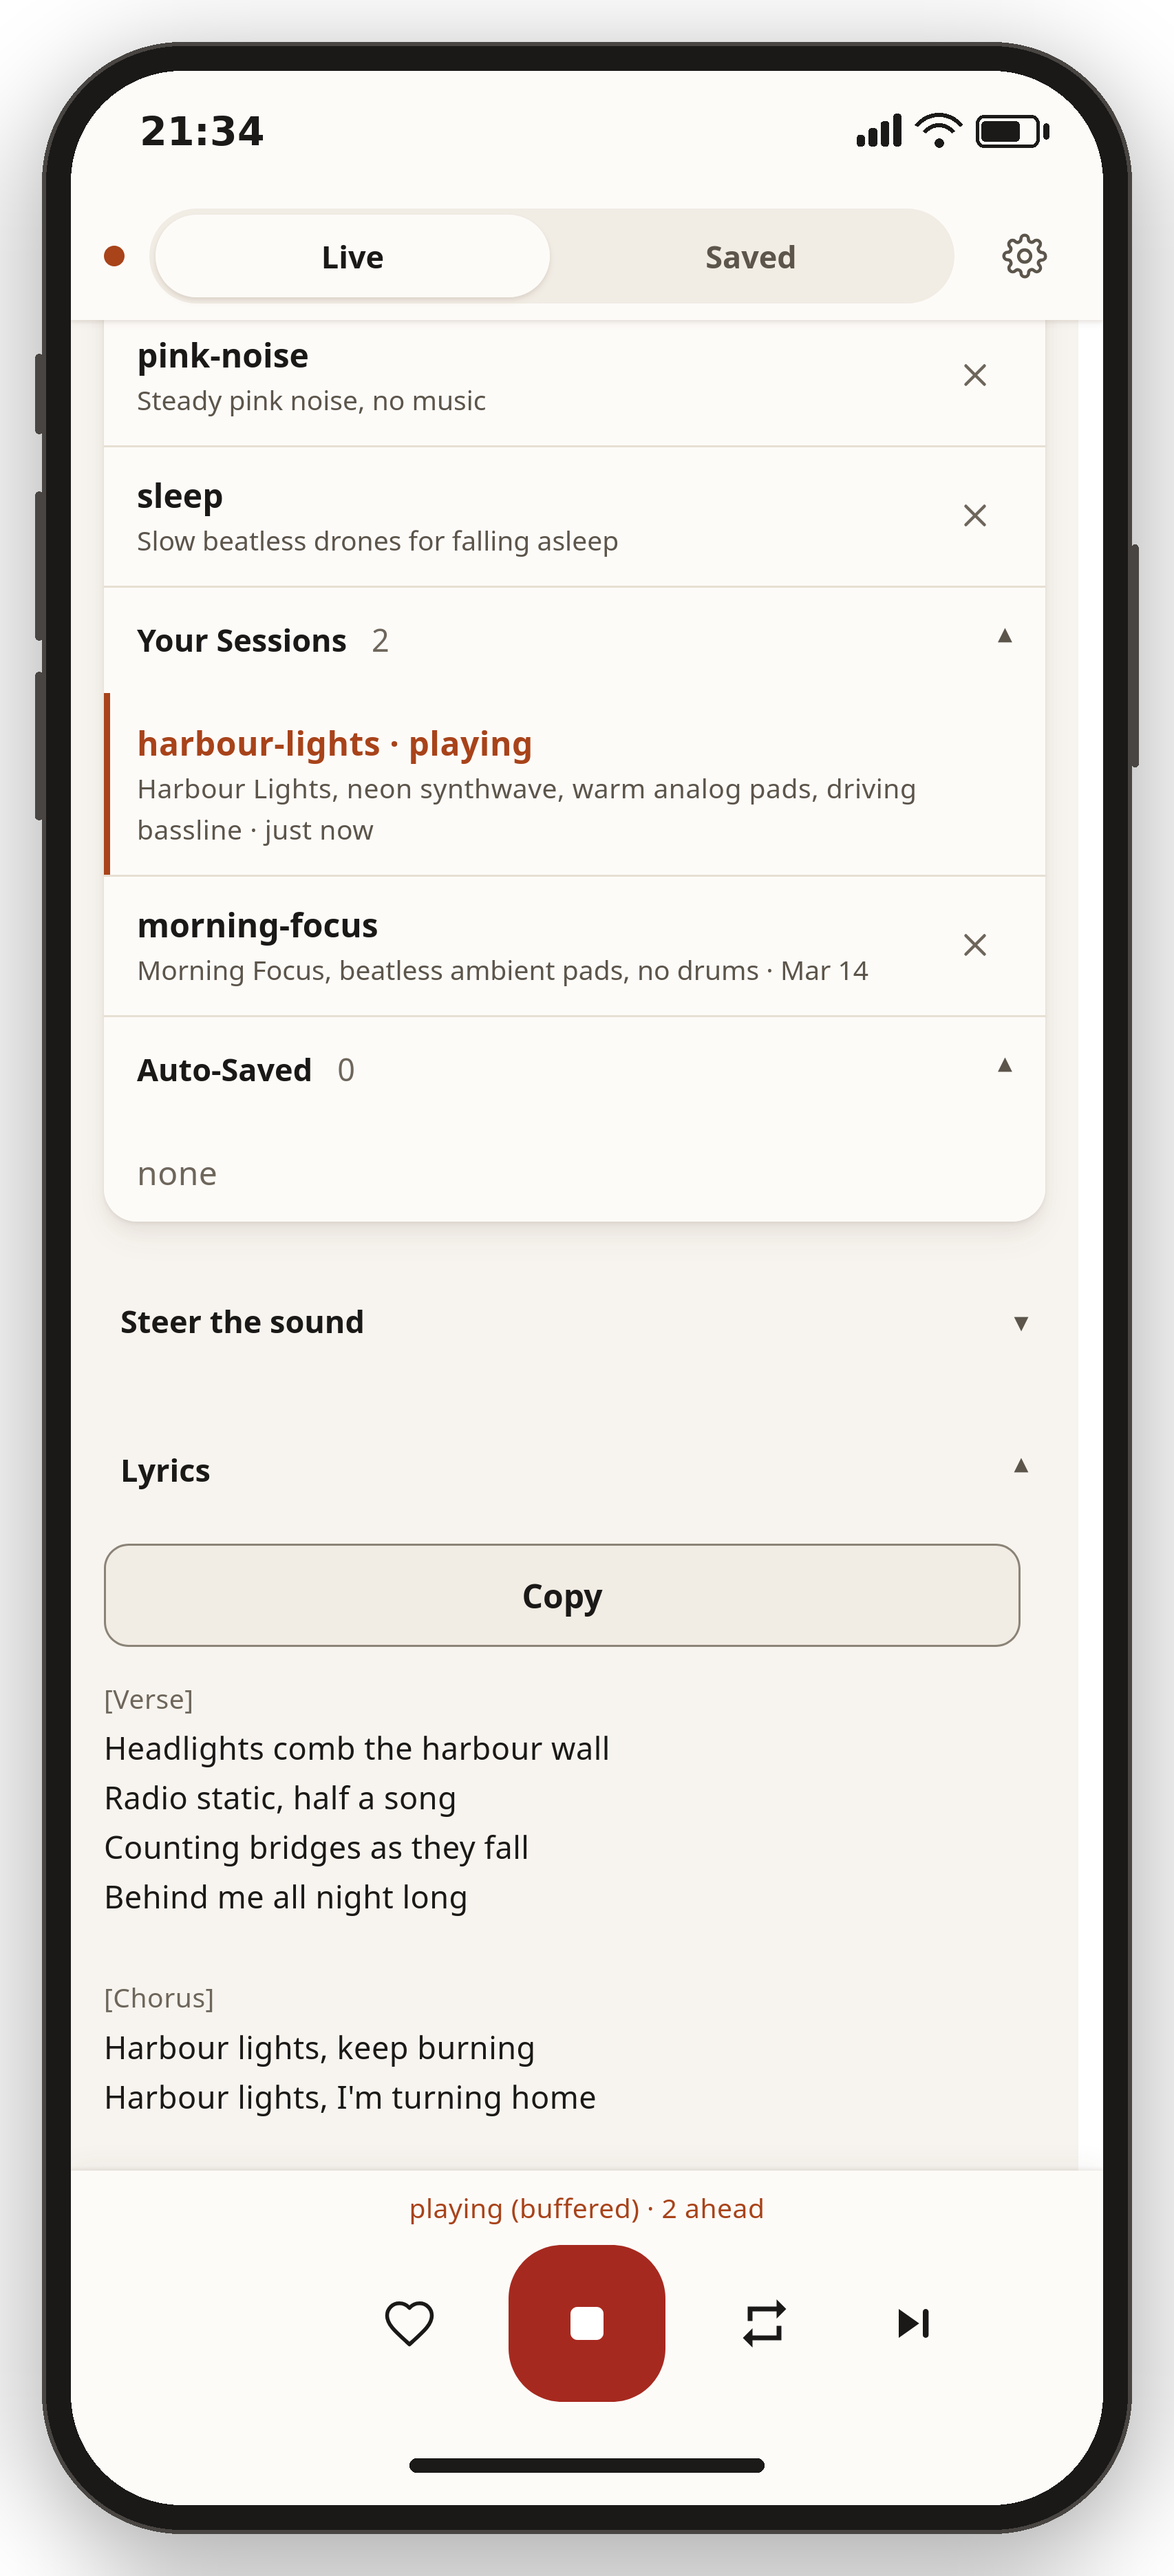
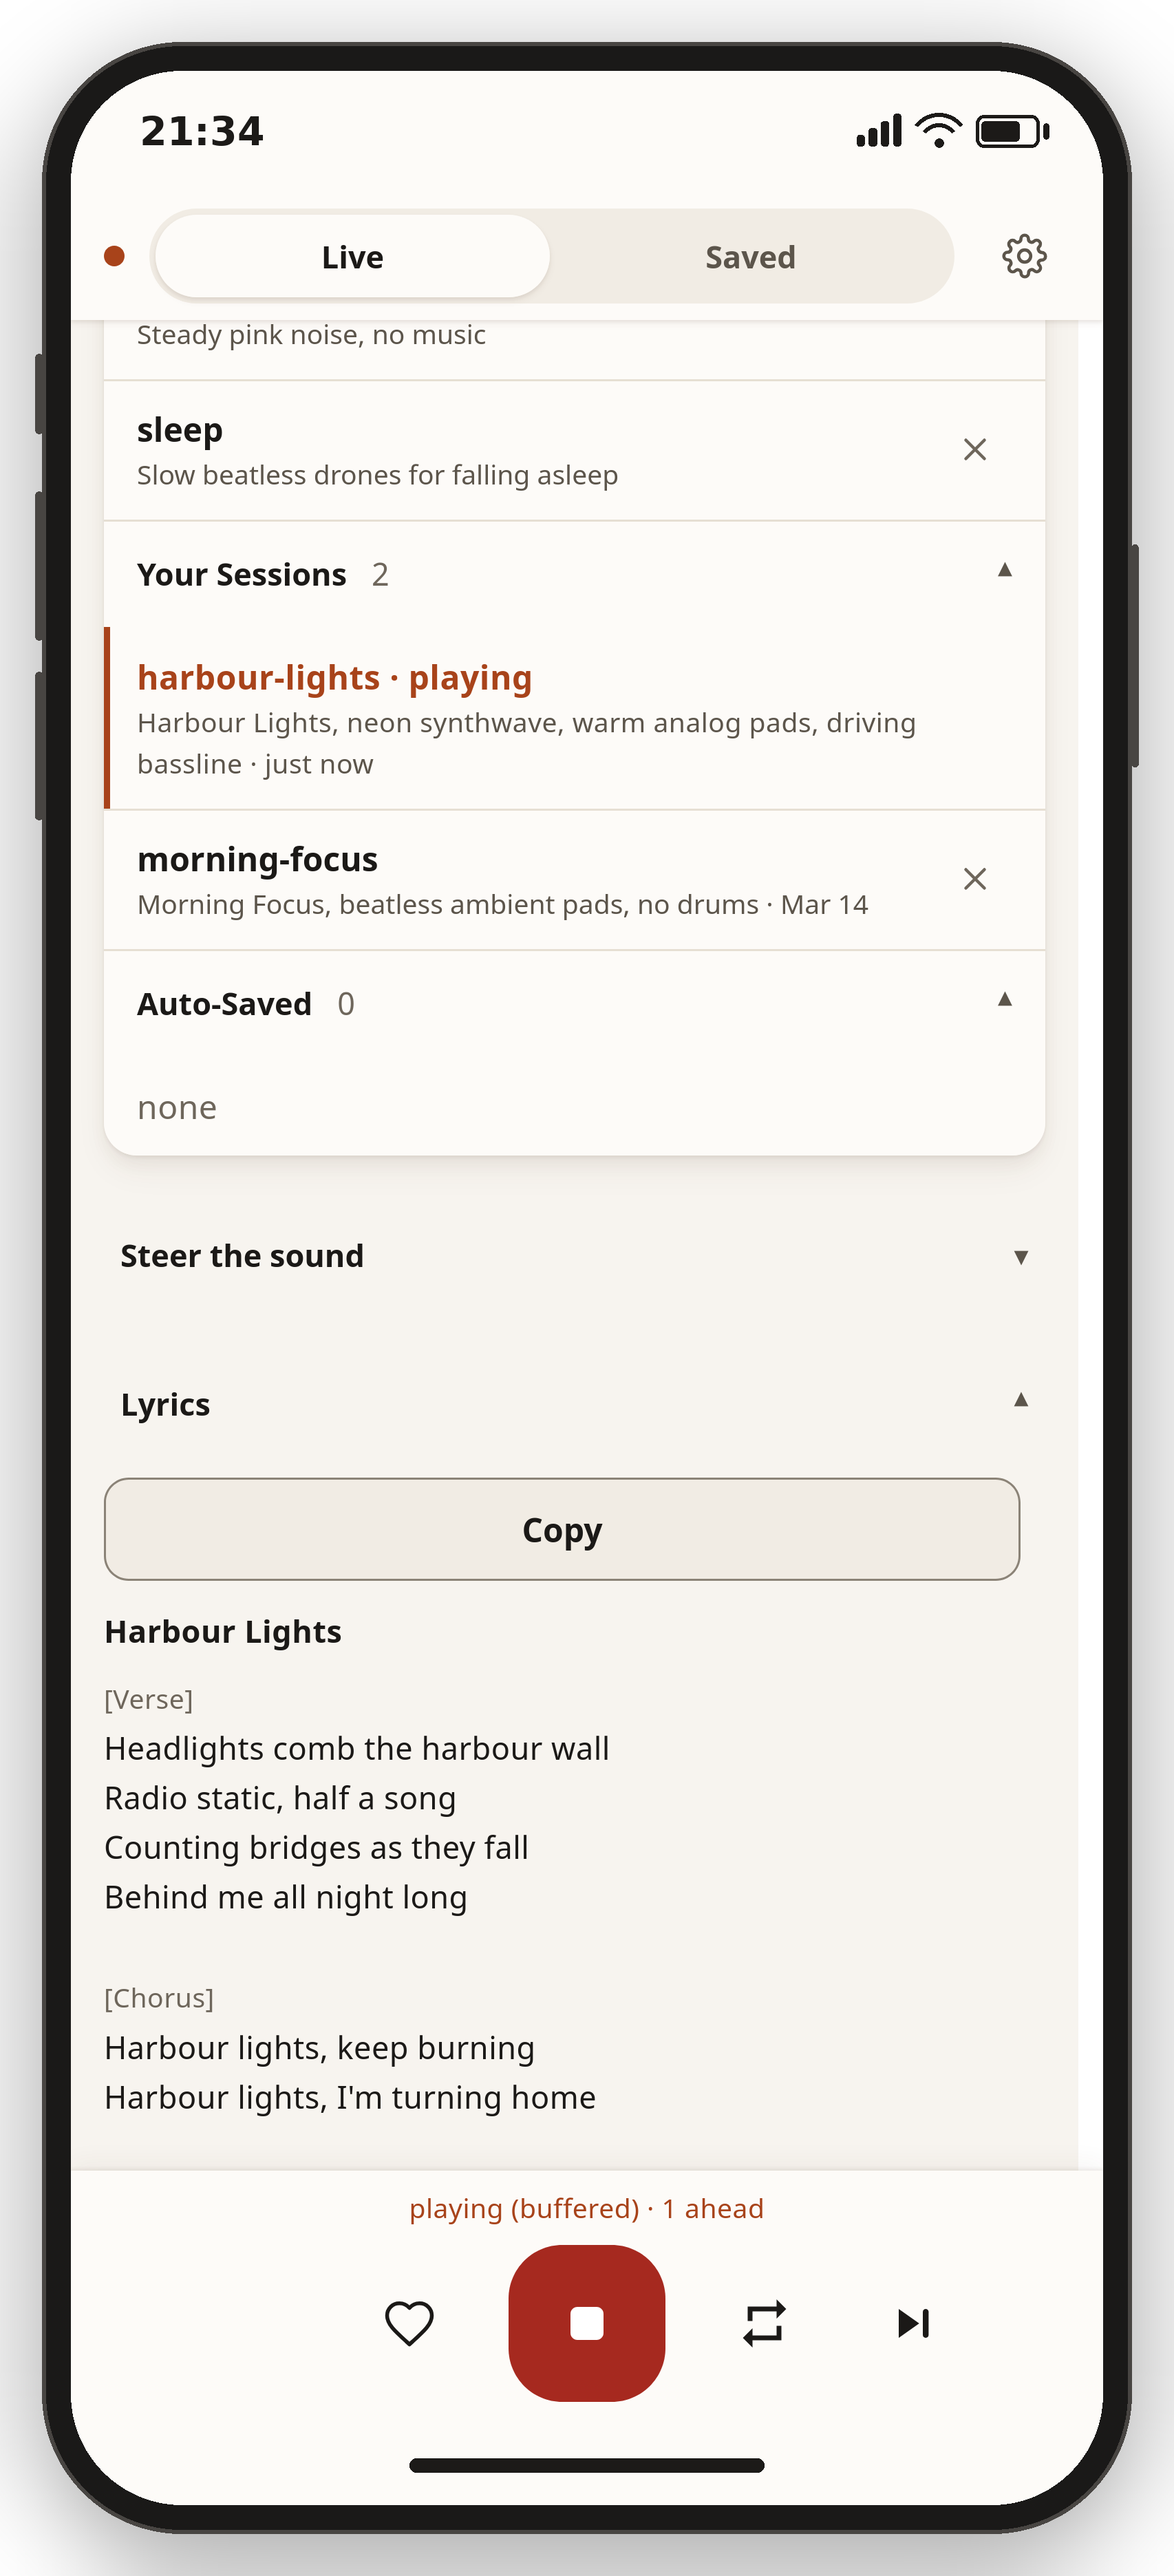
The words are headed by the song they belong to
The lyrics panel showed the words with nothing to say whose they were,
and the Copy button handed over the same anonymous sheet - which stops
being a song the moment it lands in a notes app. The song's name now
sits above its words and travels with them when they are copied. Like
the words themselves it follows whatever this device is playing, so a
phone on its own bank heads the lyrics with the song it is actually
hearing.

diff --git a/internal/remote/assets/app.js b/internal/remote/assets/app.js
@@ -1513,23 +1513,32 @@
   // words anyone sings, so they are set back rather than dropped.
   var lyricsSig = null;
   var lyricsText = "";
+  var lyricsTitle = "";
   // Buffered playback runs on this device's own copy, which is rarely
   // the track the machine is on: the words have to follow what is
   // coming out of THIS phone, or they arrive a track late.
-  function playingLyrics(s) {
+  // playingSong is the song whose words the panel is showing: this
+  // device's own record while it plays its bank, the machine's track
+  // otherwise. Returning the song rather than just its words lets the
+  // panel head the lyrics with the name they belong to.
+  function playingSong(s) {
     if (pf.active) {
-      if (!pf.playingId) return "";
-      var rec = pf.have[pf.playingId];
-      return (rec && rec.lyrics) || "";
+      if (!pf.playingId) return null;
+      return pf.have[pf.playingId] || null;
     }
     // Not playing this device's own bank: the panel follows the radio
     // itself. The room's speakers are singing these words right now,
     // so they show whether or not this device also streams the audio.
-    return (s.track && s.track.lyrics) || "";
+    return (s && s.track) || null;
   }
   function renderLyrics(s) {
-    var text = playingLyrics(s);
+    var song = playingSong(s);
+    var text = (song && song.lyrics) || "";
     lyricsText = text;
+    lyricsTitle = (song && song.title) || "";
+    // The name is its own element, so it repaints with the song even
+    // when the words happen to be unchanged.
+    setText($("lyrtitle"), text ? lyricsTitle : "");
     if (text === lyricsSig) return;
     lyricsSig = text;
     var box = $("lyrics");
@@ -1673,7 +1682,9 @@
       return;
     }
     buzz();
-    copyText(lyricsText).then(function () {
+    // A sheet of words with no name on it is a puzzle once it is out
+    // of the page and in a notes app.
+    copyText(lyricsTitle ? lyricsTitle + "\n\n" + lyricsText : lyricsText).then(function () {
       setStatus($("lyrcopystatus"), "copied", "ok");
     })["catch"](function () {
       setStatus($("lyrcopystatus"), "could not copy - select the words and copy by hand", "err");

diff --git a/internal/remote/assets/style.css b/internal/remote/assets/style.css
@@ -561,6 +561,16 @@ details[open] #baseprompt { -webkit-line-clamp: none; }
    The words are the one thing on this screen worth reading rather than
    scanning, so they get their own measure and keep the writer's own
    line breaks and section markers. */
+/* The song's name over its words, so a copied sheet says what it is
+   and the panel is readable on its own. Hidden by CSS rather than a
+   timed paint: an empty name simply takes no room. */
+.lyrtitle {
+  font-size: 15px; line-height: 24px; font-weight: 600;
+  color: var(--text); margin-bottom: var(--s2);
+  overflow-wrap: anywhere;
+}
+.lyrtitle:empty { display: none; }
+
 .lyrics {
   white-space: pre-wrap; overflow-wrap: anywhere;
   font-size: 15px; line-height: 24px; color: var(--text);

diff --git a/internal/remote/assets/player.html b/internal/remote/assets/player.html
@@ -81,6 +81,7 @@
           <button class="action tap" id="lyrcopy" type="button">Copy</button>
           <span id="lyrcopystatus" class="cardstatus"></span>
         </div>
+        <div id="lyrtitle" class="lyrtitle"></div>
         <p id="lyrics" class="lyrics"><span class="empty">nothing sung yet</span></p>
       </div>
     </details>

diff --git a/internal/remote/browser_test.go b/internal/remote/browser_test.go
@@ -1092,6 +1092,43 @@ func TestRealBrowserResilience(t *testing.T) {
 		w.exec(`return document.getElementById('lyrics').textContent;`, &lyr)
 		return strings.Contains(lyr, "the words for task-") && strings.Contains(lyr, "[Chorus]")
 	})
+	// The words carry the name of the song they belong to, both on the
+	// page and in what the Copy button hands over - a sheet of lyrics
+	// with no name on it is a puzzle once it is in a notes app. Read
+	// the two together so a track change between reads cannot make
+	// them look mismatched.
+	waitFor(t, 15*time.Second, "the lyrics to be headed by the song's name", func() bool {
+		var v struct {
+			Title string `json:"title"`
+			Now   string `json:"now"`
+		}
+		w.exec(`return {title: (document.getElementById('lyrtitle')||{}).textContent||"",
+		                now: (document.getElementById('now')||{}).textContent||""};`, &v)
+		return v.Title != "" && v.Title == v.Now
+	})
+	w.exec(`window.__copied = null;
+		navigator.clipboard = navigator.clipboard || {};
+		navigator.clipboard.writeText = function (t) { window.__copied = t; return Promise.resolve(); };
+		return true;`, nil)
+	w.click("#lyrcopy")
+	waitFor(t, 10*time.Second, "the copied sheet to carry the title", func() bool {
+		var v struct {
+			Copied string `json:"copied"`
+			Title  string `json:"title"`
+			Words  string `json:"words"`
+		}
+		w.exec(`return {copied: window.__copied || "",
+		                title: (document.getElementById('lyrtitle')||{}).textContent||"",
+		                words: (document.getElementById('lyrics')||{}).textContent||""};`, &v)
+		if v.Copied == "" {
+			return false
+		}
+		if !strings.HasPrefix(v.Copied, v.Title) {
+			t.Fatalf("copied sheet does not start with the song's name %q: %q", v.Title, v.Copied[:min(80, len(v.Copied))])
+		}
+		return strings.Contains(v.Copied, "[Chorus]")
+	})
+
 	waitFor(t, 20*time.Second, "steer reached generation", func() bool {
 		return strings.Contains(fe.lastPrompt(), "synths")
 	})
@@ -1314,42 +1351,6 @@ func TestRealBrowserResilience(t *testing.T) {
 		return strings.HasPrefix(md.Artist, "Track ") && md.Title != "Infinite AI Radio"
 	})
 
-	// The page's own headline must name the song THIS device is
-	// playing, not the machine's. In buffered mode the phone plays its
-	// own bank at its own pace, so the two drift apart constantly -
-	// and painting the machine's track is what renamed the song under
-	// a listener who was only looping one. The lock screen has always
-	// followed the device; wait for a moment when the machine is
-	// demonstrably elsewhere, and require the headline to side with
-	// the device.
-	var sawDivergence bool
-	waitFor(t, 40*time.Second, "the machine and this device to name different songs", func() bool {
-		var v struct {
-			Now    string `json:"now"`
-			Card   string `json:"card"`
-			Server string `json:"server"`
-		}
-		w.execAsync(`var cb = arguments[arguments.length - 1];
-			fetch('/state').then(function (r) { return r.json() }).then(function (st) {
-				var m = ('mediaSession' in navigator) && navigator.mediaSession.metadata;
-				cb({now: (document.getElementById('now')||{}).textContent||"",
-				    card: m ? m.title : "",
-				    server: (st.track && (st.track.title || st.track.prompt)) || ""});
-			});`, &v)
-		if v.Card == "" || v.Server == "" || v.Card == v.Server {
-			return false
-		}
-		sawDivergence = true
-		if v.Now != v.Card {
-			t.Fatalf("the headline named the machine's song, not this device's: headline %q, device %q, machine %q",
-				v.Now, v.Card, v.Server)
-		}
-		return true
-	})
-	if !sawDivergence {
-		t.Fatal("never caught the machine and the device on different songs; the check proved nothing")
-	}
-
 	// --- the car's previous-track button saves what the driver hears ---
 	// The media-session action is dispatched exactly as Chrome would;
 	// buffered mode must save the DEVICE's playing track, flash "Saved:"
@@ -1536,6 +1537,36 @@ func TestRealBrowserBufferedNextExclusive(t *testing.T) {
 		return st.Playing == 1 && strings.Contains(pill, "1 ahead")
 	})
 	before := readState()
+
+	// The headline must name the song THIS device is playing. Skipping
+	// the MACHINE moves it on without touching the phone's bank, which
+	// is exactly the state that renamed the song under a listener who
+	// was only looping one: two different songs, one headline. The
+	// lock screen has always followed the device, so they must agree.
+	w.execAsync(`var cb = arguments[arguments.length - 1];
+		fetch('/next', {method: 'POST', headers: {'X-IAR-Remote': '1'}}).then(function () { cb(true) });`, nil)
+	waitFor(t, 25*time.Second, "the headline to name this device's song, not the machine's", func() bool {
+		var v struct {
+			Now    string `json:"now"`
+			Card   string `json:"card"`
+			Server string `json:"server"`
+		}
+		w.execAsync(`var cb = arguments[arguments.length - 1];
+			fetch('/state').then(function (r) { return r.json() }).then(function (st) {
+				var m = ('mediaSession' in navigator) && navigator.mediaSession.metadata;
+				cb({now: (document.getElementById('now')||{}).textContent||"",
+				    card: m ? m.title : "",
+				    server: (st.track && (st.track.title || st.track.prompt)) || ""});
+			});`, &v)
+		if v.Card == "" || v.Server == "" || v.Card == v.Server {
+			return false // not yet on different songs
+		}
+		if v.Now != v.Card {
+			t.Fatalf("the headline named the machine's song, not this device's: headline %q, device %q, machine %q",
+				v.Now, v.Card, v.Server)
+		}
+		return true
+	})
 
 	w.click("#next")
 
